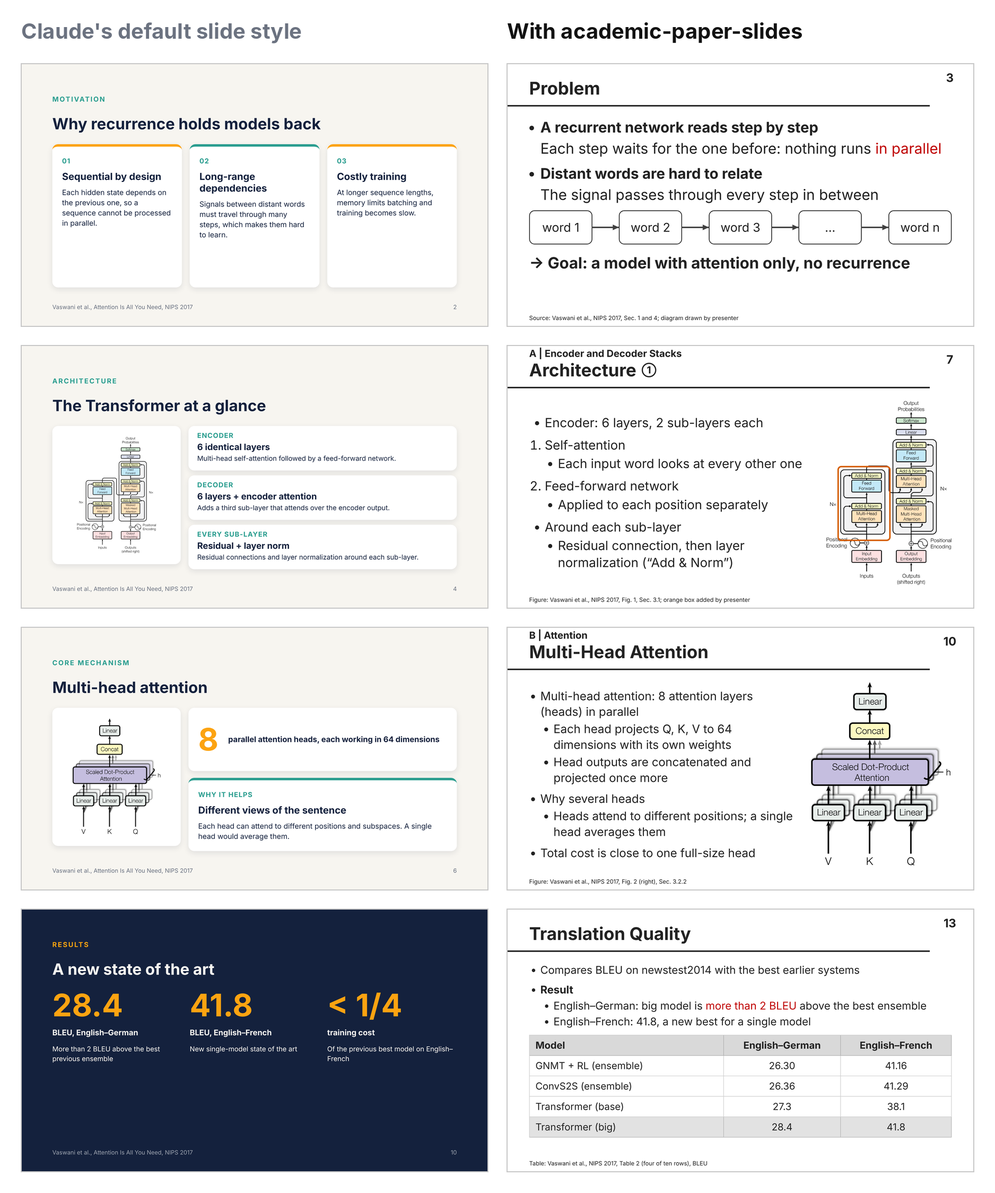
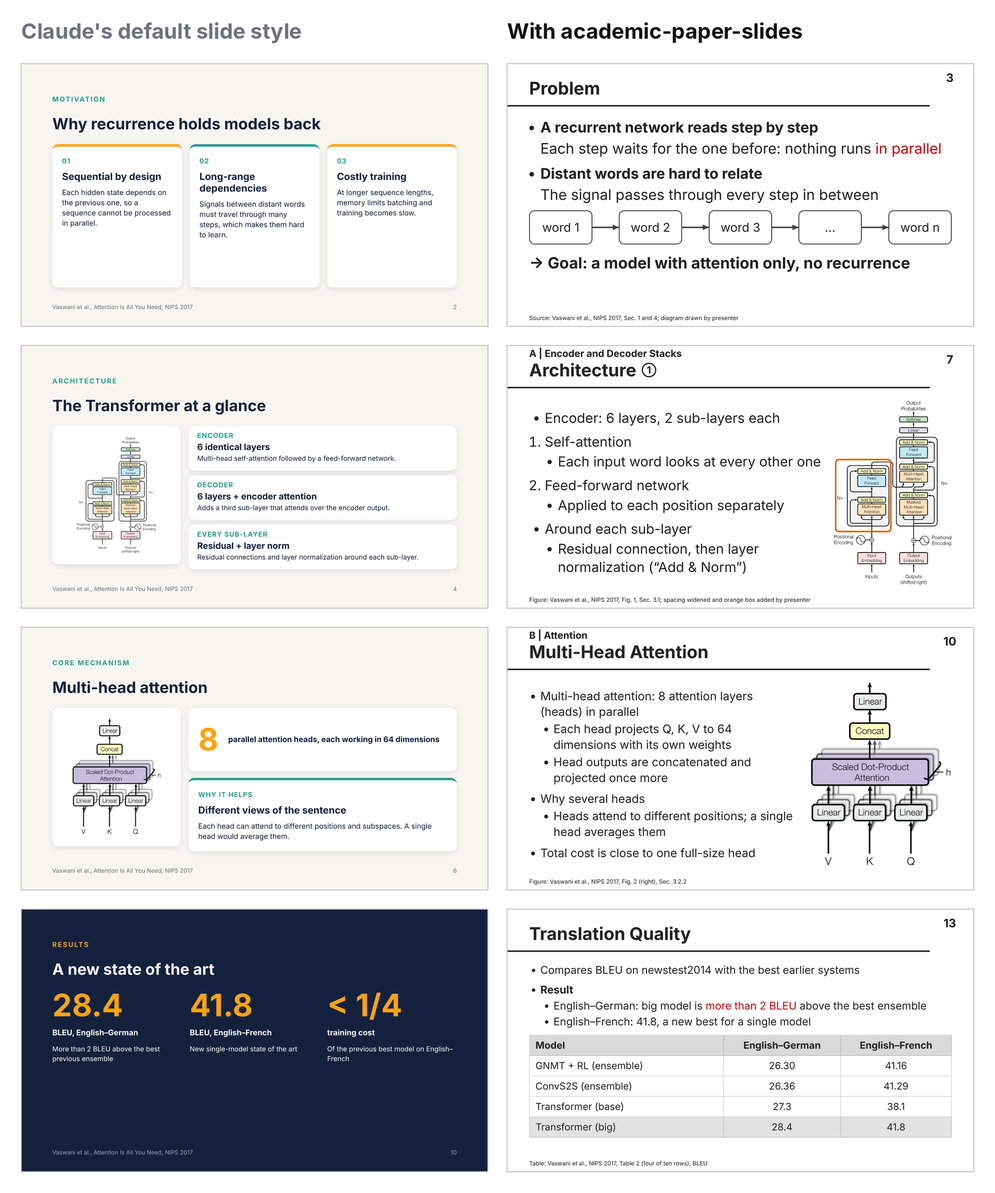
Text above every visual, rings clear of text, claims no stronger than the paper; version 2.2.0
Rules and checks:
- A flow has one or two lines of text above it; a slide is never a title and a
  visual alone (flag TEXT).
- The text in a boxed formula term stays on the baseline of the rest (flag FORMULA).
- A ring never crosses the figure's own text; widen the spacing in a copy of the
  figure when no ring can pass.
- Abbreviations first shown without an explanation on the slide are listed.
- Claims: the paper's wording, the configuration named, no table rows that hide a
  counterexample. Default settings once before the results. A formula or constant
  from another paper gets a source line even in a talk on one's own paper.
- Placeholder box (.ph) and a list for pictures and videos only the presenter can
  supply. Figures lose panel letters that mean nothing on the slide.
- A version without notes: export_pptx.js --no-notes.

The example follows them: text above the flow, a spaced copy of Fig. 1 so the
rings cross no label, and the model-variation slide no longer says the base
settings are best.

Claude-Session: https://claude.ai/code/session_01Sxcig8HAYqBrMpwSTaysmM

Changed region(s): [[0.5256, 0.3425, 0.8038, 0.4982], [0.8348, 0.3425, 0.9584, 0.4982]]

diff --git a/skills/academic-paper-slides/scripts/check_layout.js b/skills/academic-paper-slides/scripts/check_layout.js
@@ -194,7 +194,7 @@ function measure(cfg) {
     const out = { n: i + 1, id: sec.id, cover: sec.classList.contains('cover'), flags: [], notes: [], txt: [] };
 
     let top = Infinity, bottom = 0;
-    sec.querySelectorAll('p,li,img,table,h1,h2,h3,svg,x-shape,.fig,.card,.node,.panel,.host').forEach((el) => {
+    sec.querySelectorAll('p,li,img,table,h1,h2,h3,svg,x-shape,.fig,.card,.node,.panel,.host,.ph').forEach((el) => {
       if (el.closest(CHROME)) return;
       const r = el.getBoundingClientRect();
       if (!r.width || !r.height) return;
@@ -291,7 +291,7 @@ function measure(cfg) {
       else if (best - cur >= cfg.step && (cleanAtBest || best - cur > 8)) out.flags.push(`GROW: set .flow font-size:${best}px (now ${cur}px)`);
       if (stop && best !== null && cur <= fit) out.notes.push(`the flow stops at ${fit}px because of the line "${stop}". A shorter line there lets the text of every box grow (up to ${FLOW_MAX}px)`);
       // A flow alone on its slide with empty bands above and below it
-      const alone = !sec.querySelector('.txt, table, .fig, .host');
+      const alone = !sec.querySelector('table, .fig, .host');
       const fill = flow.getBoundingClientRect().height / avail;
       if (alone && best !== null && cur >= best - 2 && fill < 0.62) {
         out.flags.push(stop
@@ -348,6 +348,16 @@ function measure(cfg) {
             return r.right > tr.left - 6 && r.left < tr.right + 6;
           });
           if (near) out.flags.push(`FORMULA: the outline around "${tm.textContent.trim().slice(0, 16)}" touches "${near.textContent.trim().slice(0, 12)}". Keep the gap of .eq and the padding of .term as deck.css sets them, or make the formula smaller`);
+          // The text in a box stays on the baseline of the pieces outside it
+          const plain = (q) => !/\b(sb|sp|tl)\b/.test(q.className);
+          const base = [...tm.querySelectorAll('p')].find(plain);
+          const eq = tm.closest('.eq');
+          const ref = base && [...eq.querySelectorAll('p')].find((q) => plain(q) && !q.closest('.term')
+            && Math.abs(px(getComputedStyle(q).fontSize) - px(getComputedStyle(base).fontSize)) < 0.5);
+          if (ref) {
+            const lift = ref.getBoundingClientRect().bottom - base.getBoundingClientRect().bottom;
+            if (Math.abs(lift) > 2) out.flags.push(`FORMULA: the text in the box around "${tm.textContent.trim().slice(0, 16)}" sits ${Math.round(Math.abs(lift))}px ${lift > 0 ? 'higher' : 'lower'} than the rest of the formula. The box's padding and border must not move it: give .term a negative bottom margin equal to its bottom padding plus its border, as deck.css does`);
+          }
         });
       }
       // A template that requires its logo says so in deck.css: section { --logo: required }
@@ -355,6 +365,30 @@ function measure(cfg) {
         out.flags.push('LOGO missing: every content slide starts with <img class="logo"> (assets/logo.png)');
     }
 
+    // Every visual has a line of text that says what it shows. A flow of steps is a visual like any other
+    if (!out.cover) {
+      const before = (a, b) => !!(a.compareDocumentPosition(b) & Node.DOCUMENT_POSITION_FOLLOWING);
+      const lead = [...sec.querySelectorAll('.txt, .goal')];
+      sec.querySelectorAll('.flow').forEach((fl) => {
+        if (!lead.some((t) => before(t, fl))) out.flags.push('TEXT: the flow has no text above it. Put one or two short lines in a .txt block above the flow that say what it shows (what is tested and how). A slide is never a title and a flow alone');
+      });
+      const vis = sec.querySelector('.host, .fig, table, .dia, .ph');
+      if (vis && !sec.querySelector('.flow') && !sec.querySelector('.txt, .goal, .cols'))
+        out.flags.push('TEXT: the slide shows a visual with no line of text. Put one or two short lines above it that say what to look for');
+    }
+    // Abbreviations on this slide, and whether the slide explains them: "CFD (…)", "(… CFD …)" or "CFD: …"
+    {
+      const clone = sec.cloneNode(true);
+      clone.querySelectorAll('aside, .cite, .pnum, .logo').forEach((e) => e.remove());
+      clone.querySelectorAll('br').forEach((e) => e.replaceWith(' '));
+      clone.querySelectorAll('p, li, td, th, h1, h2, h3, div').forEach((e) => e.append(' '));
+      const text = clone.textContent.replace(/\s+/g, ' ');
+      const found = text.match(/\b(?:[A-Z]{2,}[a-z0-9]*|[A-Z][a-z]+[A-Z0-9][A-Za-z0-9]*|[A-Z]+[0-9]+[A-Za-z0-9]*)\b/g) || [];
+      out.abbr = [...new Set(found)].map((tok) => {
+        const e = tok.replace(/[.*+?^${}()|[\]\\]/g, '\\$&');
+        return { tok, defined: new RegExp(e + '(?:\\s+[\\w.-]+){0,2}\\s*[\\(（:：]|[\\(（][^\\)）]*' + e).test(text) };
+      });
+    }
     const ems = [...sec.querySelectorAll('.em')].filter((e) => !e.closest(CHROME));
     if (ems.length > 3) out.flags.push(`EMPHASIS: ${ems.length} red phrases on one slide; keep at most three`);
     if (ems.some((e) => e.textContent.trim().split(/\s+/).length > 6)) out.flags.push('EMPHASIS: a red phrase is longer than six words; stress only the key number or phrase');
@@ -414,7 +448,7 @@ function measure(cfg) {
         });
       } catch (e) { out.where = []; }
     }
-    out.visual = !!sec.querySelector('img:not(.logo), table, .flow, .dia, .host, .eq, svg:not(.xconn)');
+    out.visual = !!sec.querySelector('img:not(.logo), table, .flow, .dia, .host, .eq, .ph, svg:not(.xconn)');
     return out;
   });
 }
@@ -466,6 +500,18 @@ function measure(cfg) {
   } else if (plain.length) {
     console.log(`\nNote: text-only slides: ${plain.map((r) => r.id).join(', ')}. Check that none of them would be clearer as a diagram, a table or a figure.`);
   }
+  // Abbreviations whose first appearance in the deck has no explanation on that slide
+  const seen = new Set(), unexplained = [];
+  for (const r of rows) {
+    if (r.cover) continue;
+    for (const a of r.abbr || []) {
+      const key = a.tok.replace(/s$/, '');
+      if (seen.has(key)) continue;
+      seen.add(key);
+      if (!a.defined) unexplained.push(`${a.tok} (slide ${r.n})`);
+    }
+  }
+  if (unexplained.length) console.log(`\nNote: first shown without an explanation on the slide: ${unexplained.slice(0, 16).join(', ')}${unexplained.length > 16 ? ', ...' : ''}. Explain an abbreviation in a few words where the audience first sees it, on the slide and not only in the notes, unless every listener knows it.`);
   console.log(bad ? `\n${bad} thing(s) to fix. Fix them and run again.` : '\nLayout clean.');
 
   // "Method 1", "Method 2": a label with only a number says nothing about the slide

diff --git a/examples/attention/with-skill/project/deck.css b/examples/attention/with-skill/project/deck.css
@@ -18,7 +18,7 @@ section {
 
 /* Content slide: content area is x 91-1829, y 221-990 (1738 x 769) */
 section.c { padding: 221px 91px 90px 91px; display: flex; flex-direction: column; gap: 24px; }
-section.c.mid { justify-content: center; }   /* a slide that holds only a diagram or a flow: it sits in the vertical middle and uses most of the height */
+section.c.mid { justify-content: center; }   /* content that does not reach the bottom sits in the vertical middle */
 
 /* Title bar: optional section label, title, rule, page number */
 .ttl { position: absolute; left: 91px; top: 58px; width: 1635px; font-size: 72px; font-weight: 700; color: var(--accent); line-height: 1.2; white-space: nowrap; }
@@ -70,7 +70,9 @@ section.lg .tbar { left: 190px; width: 1536px; }
 .eq .dim { color: #7F7F7F; }             /* the parts of the formula the slide does not talk about */
 .tcol { display: flex; flex-direction: column; align-items: center; gap: 4px; }   /* a boxed term with its name above it, when no panel below names it */
 .eq .tl { font-size: 0.6em; font-weight: 700; color: var(--accent); line-height: 1.2; }
-.term { display: flex; align-items: flex-end; gap: 0.2em; box-sizing: border-box; border: 4px solid var(--accent); border-radius: 18px; padding: 0.06em 0.32em; }
+.term { display: flex; align-items: flex-end; gap: 0.2em; box-sizing: border-box; border: 4px solid var(--accent); border-radius: 18px; padding: 4px 0.32em; margin-bottom: -8px; }
+/* margin-bottom = -(bottom padding + border): the box hangs below the line by that much, so the text
+   inside it stays on the baseline of the unboxed pieces. Change the padding or the border and change it too */
 
 /* Layouts. .txt must be a direct child of section.c, .split or .stack */
 .split { display: flex; flex: 1; gap: 50px; align-items: center; min-height: 0; }
@@ -86,6 +88,9 @@ section.lg .tbar { left: 190px; width: 1536px; }
 .ring.red { border-color: var(--em); }   /* a second colour, when the text names two areas of one picture */
 .badge { position: absolute; width: 60px; height: 60px; box-sizing: border-box; border-radius: 30px; background: var(--mark); border: 3px solid #FFFFFF; color: #FFFFFF; font-size: 32px; font-weight: 700; line-height: 54px; text-align: center; }
 .figcap { font-size: 30px; text-align: center; line-height: 1.25; }
+/* Placeholder for a picture or video only the presenter can supply: a sized box that says what goes there */
+.ph { flex: none; box-sizing: border-box; border: 4px dashed #7F7F7F; background: #F2F2F2; display: flex; flex-direction: column; justify-content: center; gap: 8px; padding: 24px; }
+.ph p { font-size: 34px; line-height: 1.3; text-align: center; color: #595959; }
 .note { position: absolute; font-size: 34px; font-weight: 700; color: var(--em); line-height: 1.2; white-space: nowrap; }   /* a value written on a chart, such as "+76%" */
 
 /* Diagram drawn on the slide: a host of fixed size holding boxes, icons, labels and connectors.
@@ -111,10 +116,11 @@ section.lg .tbar { left: 190px; width: 1536px; }
 .tb.roomy th, .tb.roomy td { padding: 0.7em 0.6em; }   /* taller rows, when a short table would leave the slide half empty */
 
 /* Flow of boxes. ONE font-size, set inline on .flow; check_layout.js fits it (32 to 56px).
+   One or two lines of text (.txt) stand above the flow and say what it shows.
    The boxes are tall: room above and below the lines, and a step's name larger than its lines.
    Between two boxes sits a block arrow: <x-shape kind="arrow-right" class="arw"></x-shape> */
 .flow { display: flex; gap: 20px; align-items: stretch; font-size: 44px; }
-section.c.mid > .flow { min-height: 500px; }   /* alone on its slide, a flow is never a low strip */
+section.c > .flow { min-height: 460px; }   /* under its line of text, a flow is never a low strip */
 .card { flex: 1; background: #FFFFFF; border: 3px solid var(--accent); border-radius: 22px; padding: 0.7em 0.6em 0.8em 0.6em; display: flex; flex-direction: column; gap: 0.32em; }
 .card.key { border: 6px solid var(--accent); }
 .card .hd { display: flex; align-items: center; gap: 0.3em; font-size: 1.3em; padding-bottom: 0.12em; }   /* a step's number and name: <div class="hd"><p class="circ">1</p><p class="bd">Train</p></div> */

diff --git a/skills/academic-paper-slides/assets/deck.css b/skills/academic-paper-slides/assets/deck.css
@@ -18,7 +18,7 @@ section {
 
 /* Content slide: content area is x 91-1829, y 221-990 (1738 x 769) */
 section.c { padding: 221px 91px 90px 91px; display: flex; flex-direction: column; gap: 24px; }
-section.c.mid { justify-content: center; }   /* a slide that holds only a diagram or a flow: it sits in the vertical middle and uses most of the height */
+section.c.mid { justify-content: center; }   /* content that does not reach the bottom sits in the vertical middle */
 
 /* Title bar: optional section label, title, rule, page number */
 .ttl { position: absolute; left: 91px; top: 58px; width: 1635px; font-size: 72px; font-weight: 700; color: var(--accent); line-height: 1.2; white-space: nowrap; }
@@ -70,7 +70,9 @@ section.lg .tbar { left: 190px; width: 1536px; }
 .eq .dim { color: #7F7F7F; }             /* the parts of the formula the slide does not talk about */
 .tcol { display: flex; flex-direction: column; align-items: center; gap: 4px; }   /* a boxed term with its name above it, when no panel below names it */
 .eq .tl { font-size: 0.6em; font-weight: 700; color: var(--accent); line-height: 1.2; }
-.term { display: flex; align-items: flex-end; gap: 0.2em; box-sizing: border-box; border: 4px solid var(--accent); border-radius: 18px; padding: 0.06em 0.32em; }
+.term { display: flex; align-items: flex-end; gap: 0.2em; box-sizing: border-box; border: 4px solid var(--accent); border-radius: 18px; padding: 4px 0.32em; margin-bottom: -8px; }
+/* margin-bottom = -(bottom padding + border): the box hangs below the line by that much, so the text
+   inside it stays on the baseline of the unboxed pieces. Change the padding or the border and change it too */
 
 /* Layouts. .txt must be a direct child of section.c, .split or .stack */
 .split { display: flex; flex: 1; gap: 50px; align-items: center; min-height: 0; }
@@ -86,6 +88,9 @@ section.lg .tbar { left: 190px; width: 1536px; }
 .ring.red { border-color: var(--em); }   /* a second colour, when the text names two areas of one picture */
 .badge { position: absolute; width: 60px; height: 60px; box-sizing: border-box; border-radius: 30px; background: var(--mark); border: 3px solid #FFFFFF; color: #FFFFFF; font-size: 32px; font-weight: 700; line-height: 54px; text-align: center; }
 .figcap { font-size: 30px; text-align: center; line-height: 1.25; }
+/* Placeholder for a picture or video only the presenter can supply: a sized box that says what goes there */
+.ph { flex: none; box-sizing: border-box; border: 4px dashed #7F7F7F; background: #F2F2F2; display: flex; flex-direction: column; justify-content: center; gap: 8px; padding: 24px; }
+.ph p { font-size: 34px; line-height: 1.3; text-align: center; color: #595959; }
 .note { position: absolute; font-size: 34px; font-weight: 700; color: var(--em); line-height: 1.2; white-space: nowrap; }   /* a value written on a chart, such as "+76%" */
 
 /* Diagram drawn on the slide: a host of fixed size holding boxes, icons, labels and connectors.
@@ -111,10 +116,11 @@ section.lg .tbar { left: 190px; width: 1536px; }
 .tb.roomy th, .tb.roomy td { padding: 0.7em 0.6em; }   /* taller rows, when a short table would leave the slide half empty */
 
 /* Flow of boxes. ONE font-size, set inline on .flow; check_layout.js fits it (32 to 56px).
+   One or two lines of text (.txt) stand above the flow and say what it shows.
    The boxes are tall: room above and below the lines, and a step's name larger than its lines.
    Between two boxes sits a block arrow: <x-shape kind="arrow-right" class="arw"></x-shape> */
 .flow { display: flex; gap: 20px; align-items: stretch; font-size: 44px; }
-section.c.mid > .flow { min-height: 500px; }   /* alone on its slide, a flow is never a low strip */
+section.c > .flow { min-height: 460px; }   /* under its line of text, a flow is never a low strip */
 .card { flex: 1; background: #FFFFFF; border: 3px solid var(--accent); border-radius: 22px; padding: 0.7em 0.6em 0.8em 0.6em; display: flex; flex-direction: column; gap: 0.32em; }
 .card.key { border: 6px solid var(--accent); }
 .card .hd { display: flex; align-items: center; gap: 0.3em; font-size: 1.3em; padding-bottom: 0.12em; }   /* a step's number and name: <div class="hd"><p class="circ">1</p><p class="bd">Train</p></div> */

diff --git a/skills/academic-paper-slides/scripts/export_pptx.js b/skills/academic-paper-slides/scripts/export_pptx.js
@@ -1,6 +1,7 @@
 #!/usr/bin/env node
-// export_pptx.js <deck_root> <out.pptx> [--font "Arial"]
+// export_pptx.js <deck_root> <out.pptx> [--font "Arial"] [--no-notes]
 //
+// --no-notes leaves the speaker notes out of the file (a version to hand out).
 // --font lays the deck out again in that font before measuring it, so the file is correct where the
 // deck's own font is not installed (PowerPoint replaces a missing font and the lines break differently).
 //
@@ -35,8 +36,9 @@ const argv = process.argv.slice(2);
 const root = argv[0];
 const out = argv[1];
 const fontArg = argv.indexOf('--font') > 0 ? argv[argv.indexOf('--font') + 1] : null;
+const noNotes = argv.includes('--no-notes');
 if (!root || !out || !fs.existsSync(path.join(root, 'project', 'deck.json'))) {
-  console.error('usage: export_pptx.js <deck_root> <out.pptx> [--font "Arial"]');
+  console.error('usage: export_pptx.js <deck_root> <out.pptx> [--font "Arial"] [--no-notes]');
   process.exit(2);
 }
 const projectDir = path.resolve(root, 'project');
@@ -306,7 +308,7 @@ function extract() {
       if (el !== sec && r.w > 0 && r.h > 0) {
         const fill = hex(cs.backgroundColor), lw = px(cs.borderTopWidth);
         // A painted or outlined container: the boxes and panels of a diagram, a boxed term of a formula
-        if (lw > 0) items.push({ type: 'box', r, fill, line: hex(cs.borderTopColor), linePx: lw, radius: px(cs.borderTopLeftRadius) });
+        if (lw > 0) items.push({ type: 'box', r, fill, line: hex(cs.borderTopColor), linePx: lw, radius: px(cs.borderTopLeftRadius), dash: cs.borderTopStyle === 'dashed' });
         else if (fill) items.push({ type: 'rect', r, fill });
         // A box that centres its lines (a node or panel of a diagram) becomes ONE text box over its inside, anchored
         // in the middle. Its lines then stay centred when another font breaks them differently, and it is one box to edit.
@@ -435,7 +437,7 @@ function extract() {
         const r = { x: it.r.x + h, y: it.r.y + h, w: it.r.w - it.linePx, h: it.r.h - it.linePx };
         const round = it.radius > 1;
         slide.addShape(round ? 'roundRect' : 'rect', { ...box(r), fill: it.fill ? { color: it.fill } : { type: 'none' },
-          line: { color: it.line || s.ink, width: PT(it.linePx) },
+          line: { color: it.line || s.ink, width: PT(it.linePx), ...(it.dash ? { dashType: 'dash' } : {}) },
           ...(round ? { rectRadius: IN(Math.min(it.radius, Math.min(r.w, r.h) / 2)) } : {}) });
       } else if (it.type === 'conn') {
         // One line per leg; only the last leg carries the arrow head
@@ -512,7 +514,7 @@ function extract() {
           colW: it.rows[0].cells.map((c) => IN(c.w)), rowH: it.rows.map((row) => IN(row.h)) });
       }
     }
-    if (s.notes) slide.addNotes(s.notes);
+    if (s.notes && !noNotes) slide.addNotes(s.notes);
   }
 
   // pptxgenjs derives a bullet's indent from its level alone. Rewrite each bulleted paragraph's
@@ -563,7 +565,7 @@ function extract() {
     console.log('Note: bullet indents were left at the library defaults (' + e.message + ').');
   }
   fs.writeFileSync(path.resolve(out), data);
-  console.log(`Wrote ${out}: ${slides.length} slides.`);
+  console.log(`Wrote ${out}: ${slides.length} slides${noNotes ? ', without speaker notes' : ''}.`);
   const used = [...new Set(slides.map((s) => fontArg || s.font || 'Arial'))];
   const rare = used.filter((f) => !COMMON_FONTS.includes(f.toLowerCase()));
   if (rare.length && !fontArg) {

diff --git a/examples/attention/with-skill/project/slides/r4.html b/examples/attention/with-skill/project/slides/r4.html
@@ -3,22 +3,24 @@
 <div class="rule"></div>
 <div class="pnum"></div>
 <div class="stack">
-<div class="txt" style="font-size:58px">
+<div class="txt" style="font-size:48px">
   <div class="grp">
     <ul class="bl"><li>Tests a different task: English constituency parsing</li></ul>
-    <ul class="bl sub"><li>A 4-layer Transformer, almost unchanged from translation</li></ul>
+    <ul class="bl sub"><li>4-layer Transformer; data: WSJ (Wall Street Journal treebank); score: F1</li></ul>
   </div>
   <div class="grp">
-    <ul class="bl"><li><span class="k">Result</span></li></ul>
-    <ul class="bl sub"><li>Close to the best with WSJ data only, <span class="em">ahead</span> with extra data</li></ul>
+    <ul class="bl"><li>WSJ only: close to the best earlier result</li></ul>
+  </div>
+  <div class="grp">
+    <ul class="bl"><li>Semi-supervised: <span class="em">above</span> the earlier semi-supervised results</li></ul>
   </div>
 </div>
-<table class="tb roomy" style="font-size:44px">
-<tr class="h"><th style="width:50%">Training data (WSJ section 23, F1)</th><th class="ctr">Transformer</th><th class="ctr">Best earlier result</th></tr>
+<table class="tb" style="font-size:44px">
+<tr class="h"><th style="width:50%">Training data (WSJ section 23, F1)</th><th class="ctr">Transformer</th><th class="ctr">Best earlier, same setting</th></tr>
 <tr><td>WSJ only</td><td class="ctr">91.3</td><td class="ctr">91.7</td></tr>
 <tr class="hl"><td>Semi-supervised</td><td class="ctr">92.7</td><td class="ctr">92.1</td></tr>
 </table>
 </div>
 <p class="cite">Table: Vaswani et al., NIPS 2017, Table 4 (best earlier result in each setting), Sec. 6.3</p>
-<aside>[≤ 12:28] Does the model only work for translation? The authors tested a very different task, English constituency parsing. Here the output is a tree structure and it is much longer than the input. They used a Transformer with four layers and did very little tuning. Trained only on the Wall Street Journal data, it reaches an F1 score of 91.3, a little under the best earlier result. With extra semi-supervised data it reaches 92.7, above the earlier semi-supervised results. So the architecture carries over to another task.</aside>
+<aside>[≤ 12:13] Does the model only work for translation? The authors tested a very different task, English constituency parsing. Here the output is a tree structure and it is much longer than the input. They used a Transformer with four layers and did very little tuning. Trained only on the Wall Street Journal data, it reaches an F1 score of 91.3, a little under the best earlier result. With extra semi-supervised data it reaches 92.7, above the earlier semi-supervised results. So the architecture carries over to another task.</aside>
 </section>

diff --git a/examples/attention/with-skill/project/slides/r3.html b/examples/attention/with-skill/project/slides/r3.html
@@ -5,11 +5,8 @@
 <div class="stack">
 <div class="txt" style="font-size:46px">
   <div class="grp">
-    <ul class="bl"><li>Changes one setting of the base model at a time</li></ul>
-  </div>
-  <div class="grp">
-    <ul class="bl"><li><span class="k">Result</span></li></ul>
-    <ul class="bl sub"><li>The base settings are best; <span class="em">dropout</span> matters most</li></ul>
+    <ul class="bl"><li><span class="k">One setting of the base model changed at a time</span></li></ul>
+    <ul class="bl sub"><li>Too few or too many heads score lower; a bigger model scores higher</li><li><span class="em">Dropout</span> is very helpful: 1.2 BLEU lower without it</li></ul>
   </div>
 </div>
 <table class="tb" style="font-size:40px">
@@ -17,10 +14,10 @@
 <tr class="hl"><td>None (8 heads, dropout 0.1, sinusoids)</td><td class="ctr">25.8</td></tr>
 <tr><td>1 head</td><td class="ctr">24.9</td></tr>
 <tr><td>32 heads</td><td class="ctr">25.4</td></tr>
+<tr><td>Larger feed-forward layer (4096)</td><td class="ctr">26.2</td></tr>
 <tr><td>No dropout</td><td class="ctr">24.6</td></tr>
-<tr><td>Learned position embeddings</td><td class="ctr">25.7</td></tr>
 </table>
 </div>
-<p class="cite">Table: Vaswani et al., NIPS 2017, Table 3 rows (A), (D), (E), Sec. 6.2</p>
-<aside>[≤ 11:36] Which parts of the model matter? The authors changed one setting at a time and measured BLEU on the development set. The first row is the base model, with 25.8. Now look at the heads. One head is clearly worse than eight, but thirty-two heads is also worse, so more is not always better. Next, dropout. Without dropout the score falls by more than one point, the largest drop in this table. Last, the position vectors. A learned table gives almost the same score as the sine and cosine waves. So the choice of waves is not what makes the model work.</aside>
+<p class="cite">Table: Vaswani et al., NIPS 2017, Table 3 (five of twenty rows: base, A, C, D), Sec. 6.2</p>
+<aside>[≤ 11:36] Which parts of the model matter? The authors changed one setting at a time and measured BLEU on the development set. The first row is the base model, with 25.8. Look at the heads first. One head is clearly worse than eight, and thirty-two heads is also worse. A larger feed-forward layer scores higher, so a bigger model helps. Next, dropout. Without dropout the score falls by more than one point.</aside>
 </section>

diff --git a/examples/attention/with-skill/project/slides/setup.html b/examples/attention/with-skill/project/slides/setup.html
@@ -1,13 +1,16 @@
-<section id="setup" class="c mid">
+<section id="setup" class="c">
 <h2 class="ttl">Experiment Setup</h2>
 <div class="rule"></div>
 <div class="pnum"></div>
-<div class="flow" style="font-size:54px">
-  <div class="card"><div class="hd"><p class="circ">1</p><p class="bd">Data</p></div><p>WMT 2014</p><p>English–German<br>4.5M pairs</p><p>English–French<br>36M pairs</p></div>
+<div class="txt" style="font-size:54px">
+  <div class="grp"><ul class="bl"><li>Two translation tasks from WMT 2014 (public benchmark), scored with BLEU (higher is better)</li><li>Compared with the best earlier systems (GNMT, ConvS2S, MoE)</li></ul></div>
+</div>
+<div class="flow" style="font-size:50px">
+  <div class="card"><div class="hd"><p class="circ">1</p><p class="bd">Data</p></div><p>English–German<br>4.5M pairs</p><p>English–French<br>36M pairs</p></div>
   <x-shape kind="arrow-right" class="arw"></x-shape>
-  <div class="card"><div class="hd"><p class="circ">2</p><p class="bd">Train</p></div><p>8 P100 GPUs</p><p>Base: 12 hours</p><p>Big: 3.5 days</p></div>
+  <div class="card"><div class="hd"><p class="circ">2</p><p class="bd">Train</p></div><p>8 GPUs (P100)</p><p>Base: 12 hours</p><p>Big: 3.5 days</p></div>
   <x-shape kind="arrow-right" class="arw"></x-shape>
-  <div class="card key"><div class="hd"><p class="circ">3</p><p class="bd">Test</p></div><p>newstest2014</p><p>Scored by BLEU</p><p>Against GNMT,<br>ConvS2S, MoE</p></div>
+  <div class="card key"><div class="hd"><p class="circ">3</p><p class="bd">Test</p></div><p>newstest2014</p><p>BLEU against<br>earlier systems</p></div>
 </div>
 <p class="cite">Source: Vaswani et al., NIPS 2017, Sec. 5.1, 5.2 and 6.1</p>
 <aside>[≤ 9:18] Here is how the experiments were run. There are two translation tasks from WMT 2014. English to German has about four and a half million sentence pairs. English to French is much larger, with thirty-six million sentences. Training used one machine with eight GPUs. There are two model sizes. The base model trained for twelve hours, and the big model trained for three and a half days. The models were tested on the newstest 2014 set and scored with BLEU, where higher is better. The results are compared with the best recurrent and convolutional models at that time.</aside>

diff --git a/examples/attention/with-skill/project/slides/a1.html b/examples/attention/with-skill/project/slides/a1.html
@@ -4,7 +4,7 @@
 <div class="rule"></div>
 <div class="pnum"></div>
 <div class="split">
-<div class="txt num" style="font-size:52px">
+<div class="txt num" style="font-size:56px">
   <div class="grp">
     <ul class="bl"><li>Encoder: 6 layers, 2 sub-layers each</li></ul>
   </div>
@@ -21,11 +21,11 @@
     <ul class="bl sub"><li>Residual connection, then layer normalization (“Add &amp; Norm”)</li></ul>
   </div>
 </div>
-<div class="fig" style="width:516px;height:760px">
-  <img src="/project/img/fig1-architecture.png" alt="Fig. 1 of the paper: the Transformer architecture, encoder on the left and decoder on the right" style="width:516px;height:760px;object-fit:contain">
-  <x-shape kind="rounded" class="ring box" style="left:9%;top:35.5%;width:40%;height:39%"></x-shape>
+<div class="fig" style="width:485px;height:760px">
+  <img src="/project/img/fig1-architecture-spaced.png" alt="Fig. 1 of the paper: the Transformer architecture, encoder on the left and decoder on the right" style="width:485px;height:760px;object-fit:contain">
+  <x-shape kind="rounded" class="ring box" style="left:1.0%;top:31.7%;width:45.5%;height:38.1%"></x-shape>
 </div>
 </div>
-<p class="cite">Figure: Vaswani et al., NIPS 2017, Fig. 1, Sec. 3.1; orange box added by presenter</p>
+<p class="cite">Figure: Vaswani et al., NIPS 2017, Fig. 1, Sec. 3.1; spacing widened and orange box added by presenter</p>
 <aside>[≤ 4:42] Part A is the two stacks. The orange box marks the encoder, which reads the input sentence. The encoder is a stack of six identical layers. Each layer has two parts. The first part is self-attention, where every input word looks at every other input word. The second part is a small feed-forward network, which is applied to each word position separately. Around each part there is a residual connection, followed by layer normalization. The last layer gives one vector per input word, and the decoder will read these vectors.</aside>
 </section>

diff --git a/examples/attention/with-skill/project/slides/m2.html b/examples/attention/with-skill/project/slides/m2.html
@@ -11,9 +11,9 @@
 <div class="txt" style="font-size:60px">
   <div class="grp"><ul class="bl"><li>softmax turns the scores into weights</li><li>Multiplying by V gives the weighted sum of the values</li></ul></div>
 </div>
-<x-connector x1="1275" y1="332" x2="511" y2="385" route="vh" head="none" style="color:#222222;border-width:4px"></x-connector>
-<x-connector x1="511" y1="385" x2="511" y2="438" head="none" style="color:#222222;border-width:4px"></x-connector>
-<x-connector x1="1516" y1="332" x2="1516" y2="438" head="none" style="color:#222222;border-width:4px"></x-connector>
+<x-connector x1="1275" y1="332" x2="511" y2="381" route="vh" head="none" style="color:#222222;border-width:4px"></x-connector>
+<x-connector x1="511" y1="381" x2="511" y2="430" head="none" style="color:#222222;border-width:4px"></x-connector>
+<x-connector x1="1516" y1="332" x2="1516" y2="430" head="none" style="color:#222222;border-width:4px"></x-connector>
 
 <p class="cite">Source: Vaswani et al., NIPS 2017, Eq. 1, Sec. 3.2.1. Q, K, V: matrices of queries, keys and values; dₖ: dimension of the keys</p>
 <aside>[≤ 6:21] Part B starts with the attention function itself. The authors call it scaled dot-product attention, and the formula on the slide is all of it. Read it from the inside out. All queries are stacked into one matrix, and so are the keys and the values. The first boxed term multiplies the queries with the keys. That gives a score for each pair of words. The second boxed term divides every score by the square root of the key dimension. After that a softmax makes weights out of the scores, and the weights are multiplied with the values. Why the division? With large vectors the dot products become very large. The softmax then has very small gradients, and learning slows down.</aside>

diff --git a/examples/attention/with-skill/project/slides/m4.html b/examples/attention/with-skill/project/slides/m4.html
@@ -17,11 +17,11 @@
     <ul class="bl sub"><li>Relative positions are easy to learn</li><li>May extend to longer sentences</li></ul>
   </div>
 </div>
-<div class="fig" style="width:516px;height:760px">
-  <img src="/project/img/fig1-architecture.png" alt="Fig. 1 of the paper: the Transformer architecture, encoder on the left and decoder on the right" style="width:516px;height:760px;object-fit:contain">
-  <x-shape kind="rounded" class="ring box" style="left:0%;top:73%;width:100%;height:8.5%"></x-shape>
+<div class="fig" style="width:485px;height:760px">
+  <img src="/project/img/fig1-architecture-spaced.png" alt="Fig. 1 of the paper: the Transformer architecture, encoder on the left and decoder on the right" style="width:485px;height:760px;object-fit:contain">
+  <x-shape kind="rounded" class="ring box" style="left:-2.0%;top:71.1%;width:101.4%;height:7.6%"></x-shape>
 </div>
 </div>
-<p class="cite">Figure: Vaswani et al., NIPS 2017, Fig. 1, Sec. 3.5; orange box added by presenter</p>
+<p class="cite">Figure: Vaswani et al., NIPS 2017, Fig. 1, Sec. 3.5; spacing widened and orange box added by presenter</p>
 <aside>[≤ 8:23] Part C. One thing is still missing. Attention treats the sentence as a set, so the model has no idea about word order. The authors fix this at the input, and the orange box in the figure shows where. They add a position vector to every word embedding. The position vector is built from sine and cosine waves with many different frequencies. Why waves and not a learned table? With waves, a shift by a fixed number of words is a linear function of the encoding, so relative positions should be easy to learn. And waves may also work for sentences longer than any sentence in the training data.</aside>
 </section>

diff --git a/examples/attention/with-skill/project/slides/a2.html b/examples/attention/with-skill/project/slides/a2.html
@@ -22,11 +22,11 @@
     <ul class="bl"><li>On top: a linear layer and softmax give the next-word probabilities</li></ul>
   </div>
 </div>
-<div class="fig" style="width:516px;height:760px">
-  <img src="/project/img/fig1-architecture.png" alt="Fig. 1 of the paper: the Transformer architecture, encoder on the left and decoder on the right" style="width:516px;height:760px;object-fit:contain">
-  <x-shape kind="rounded" class="ring box" style="left:51%;top:19%;width:39.5%;height:55.5%"></x-shape>
+<div class="fig" style="width:485px;height:760px">
+  <img src="/project/img/fig1-architecture-spaced.png" alt="Fig. 1 of the paper: the Transformer architecture, encoder on the left and decoder on the right" style="width:485px;height:760px;object-fit:contain">
+  <x-shape kind="rounded" class="ring box" style="left:47.7%;top:18.4%;width:48.5%;height:51.4%"></x-shape>
 </div>
 </div>
-<p class="cite">Figure: Vaswani et al., NIPS 2017, Fig. 1, Sec. 3.1 and 3.4; orange box added by presenter</p>
+<p class="cite">Figure: Vaswani et al., NIPS 2017, Fig. 1, Sec. 3.1 and 3.4; spacing widened and orange box added by presenter</p>
 <aside>[≤ 5:29] The other stack is the decoder, marked by the orange box on the right. It also has six identical layers, but each layer has three parts. The first part is self-attention over the words written so far. It is masked, so a word can only look at the words before it. The second part attends over the output of the encoder. This is how the decoder reads the input sentence. The third part is the same feed-forward network as in the encoder. At the top, a linear layer and a softmax turn the result into a probability for every possible next word.</aside>
 </section>

diff --git a/examples/attention/with-skill/project/slides/concl.html b/examples/attention/with-skill/project/slides/concl.html
@@ -18,5 +18,5 @@
   </div>
 </div>
 <p class="cite">Source: Vaswani et al., NIPS 2017, Sec. 6 and 7</p>
-<aside>[≤ 13:12] Let me summarize. Translation models were recurrent networks, and attention was only a helper. Recurrence made them slow to train and weak over long distances. The Transformer is the first translation model built on attention alone. In the experiments it set a new best score on both translation tasks, and it trained at a fraction of the cost of earlier models. At the end of the paper the authors say they want to apply the model to other kinds of data, such as images, audio and video. Thank you for listening.</aside>
+<aside>[≤ 12:58] Let me summarize. Translation models were recurrent networks, and attention was only a helper. Recurrence made them slow to train and weak over long distances. The Transformer is the first translation model built on attention alone. In the experiments it set a new best score on both translation tasks, and it trained at a fraction of the cost of earlier models. At the end of the paper the authors say they want to apply the model to other kinds of data, such as images, audio and video. Thank you for listening.</aside>
 </section>
